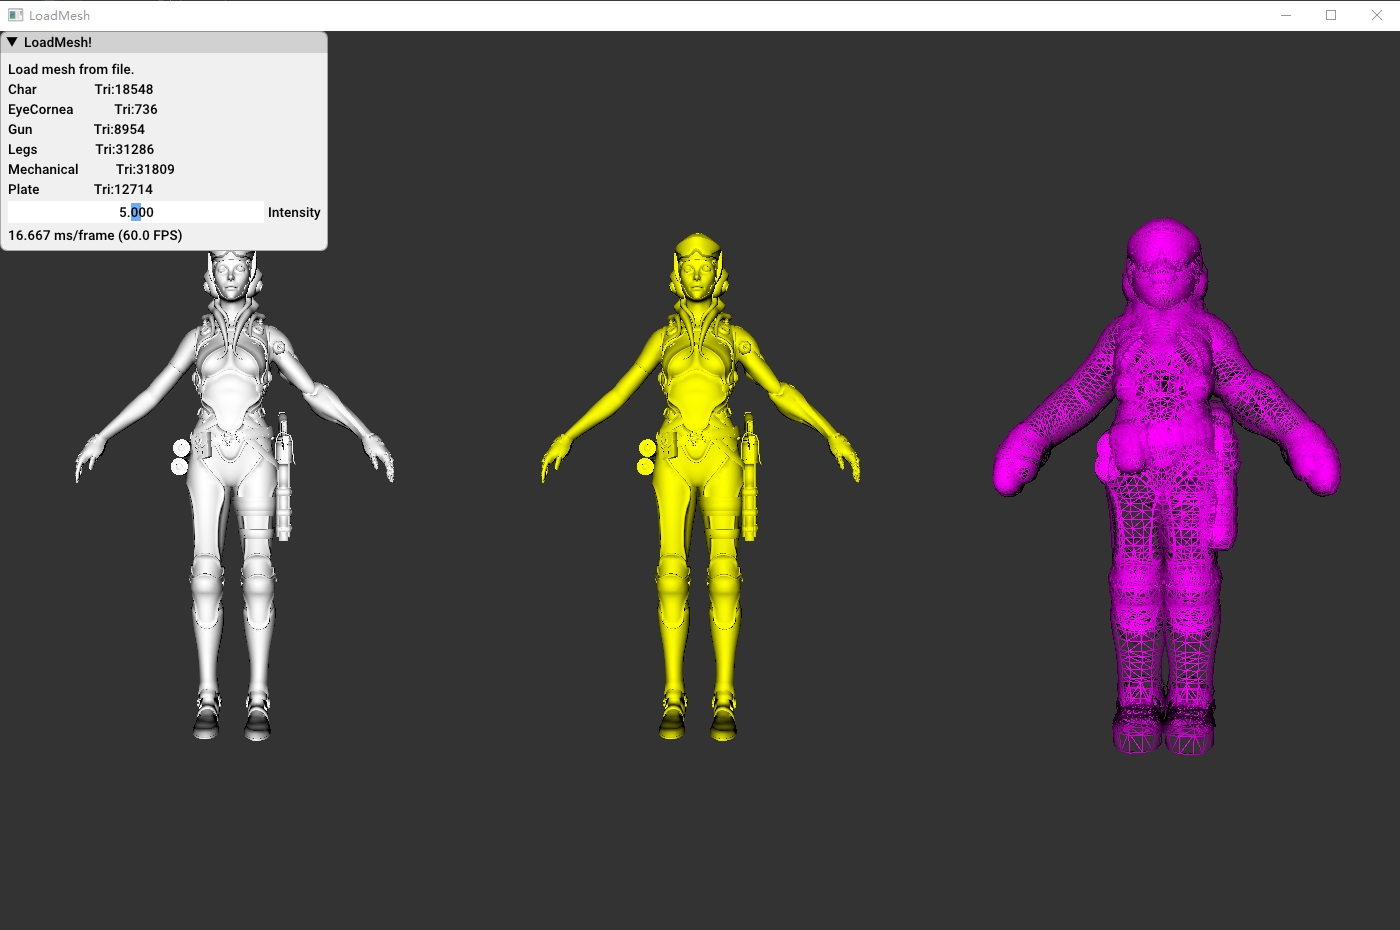
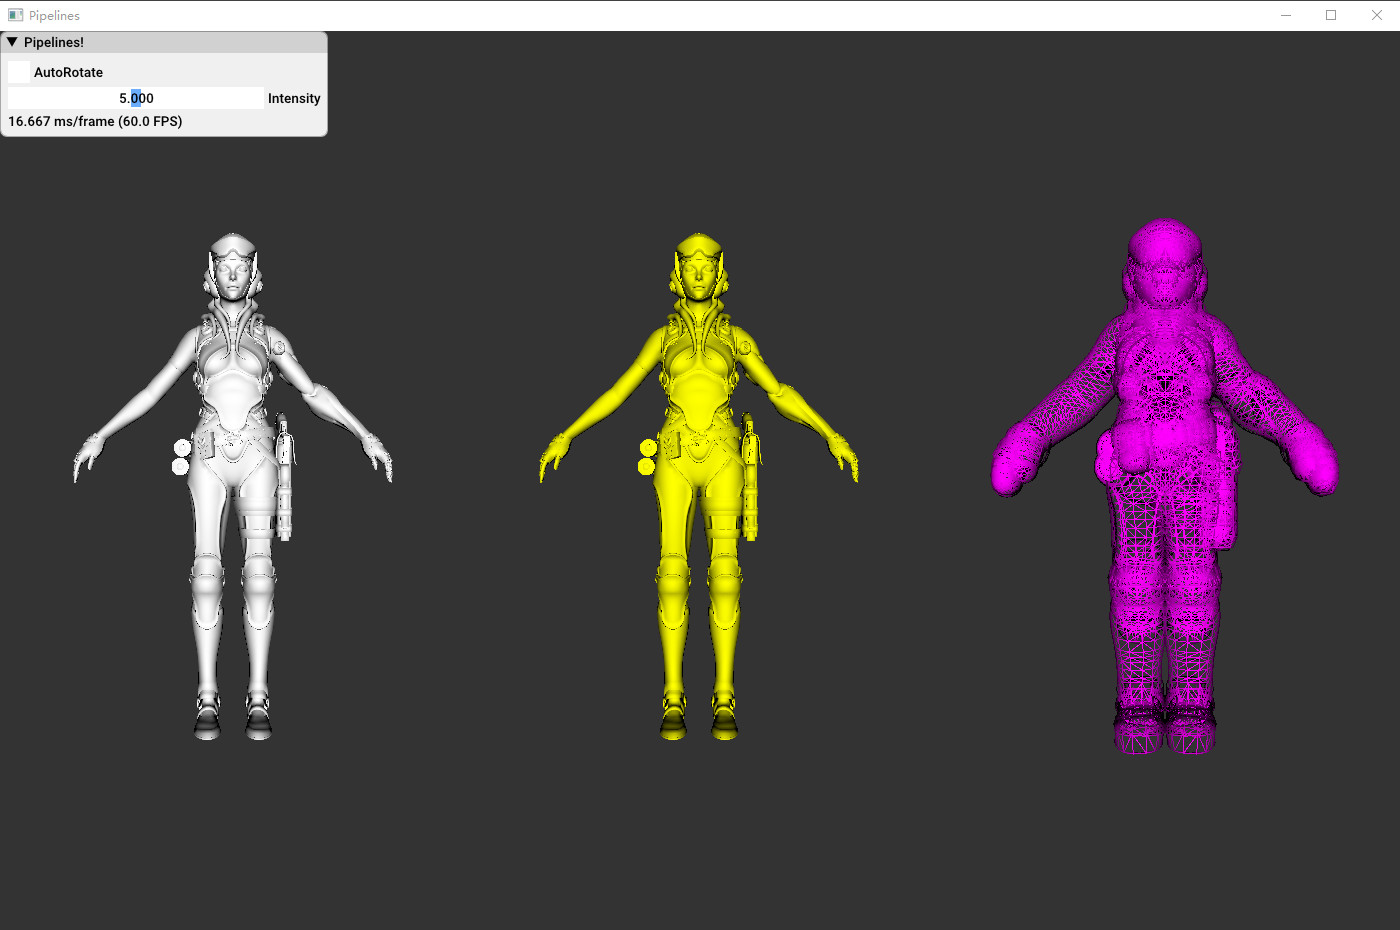
更新Demo，加入控制旋转的开关。

diff --git a/examples/8_OptimizeVertexIndexBuffer/Triangle.cpp b/examples/8_OptimizeVertexIndexBuffer/Triangle.cpp
@@ -87,7 +87,9 @@ private:
 	void Draw(float time, float delta)
 	{
         UpdateUI(time, delta);
-		UpdateUniformBuffers(time, delta);
+		if (m_AutoRotate) {
+			UpdateUniformBuffers(time, delta);
+		}
         DemoBase::Present();
 	}
     
@@ -99,9 +101,13 @@ private:
 			ImGui::SetNextWindowPos(ImVec2(0, 0));
 			ImGui::SetNextWindowSize(ImVec2(0, 0), ImGuiSetCond_FirstUseEver);
             ImGui::Begin("VertexBuffer", nullptr, ImGuiWindowFlags_AlwaysAutoResize | ImGuiWindowFlags_NoResize | ImGuiWindowFlags_NoMove);
-            ImGui::Text("VertexBuffer And IndexBuffer.");
+            
+			ImGui::Checkbox("AutoRotate", &m_AutoRotate);
+
+			ImGui::Text("VertexBuffer And IndexBuffer.");
             ImGui::Text("Application average %.3f ms/frame (%.1f FPS)", 1000.0f / ImGui::GetIO().Framerate, ImGui::GetIO().Framerate);
-            ImGui::End();
+            
+			ImGui::End();
 		}
         
 		m_GUI->EndFrame();
@@ -411,6 +417,7 @@ private:
 	}
     
 private:
+	bool							m_AutoRotate = false;
 	bool 							m_Ready = false;
     
 	UBOData 						m_MVPData;

diff --git a/examples/10_Pipelines/10_Pipelines.cpp b/examples/10_Pipelines/10_Pipelines.cpp
@@ -85,7 +85,9 @@ private:
 	void Draw(float time, float delta)
 	{
         UpdateUI(time, delta);
-		UpdateUniformBuffers(time, delta);
+		if (m_AutoRotate) {
+			UpdateUniformBuffers(time, delta);
+		}
         DemoBase::Present();
 	}
     
@@ -97,6 +99,9 @@ private:
 			ImGui::SetNextWindowPos(ImVec2(0, 0));
 			ImGui::SetNextWindowSize(ImVec2(0, 0), ImGuiSetCond_FirstUseEver);
             ImGui::Begin("Pipelines!", nullptr, ImGuiWindowFlags_AlwaysAutoResize | ImGuiWindowFlags_NoResize | ImGuiWindowFlags_NoMove);
+			
+			ImGui::Checkbox("AutoRotate", &m_AutoRotate);
+			
 			ImGui::SliderFloat("Intensity", &(m_ParamData.intensity), 0.0f, 10.0f);
 			ImGui::Text("%.3f ms/frame (%.1f FPS)", 1000.0f / ImGui::GetIO().Framerate, ImGui::GetIO().Framerate);
             ImGui::End();
@@ -391,6 +396,7 @@ private:
 	typedef std::vector<VkDescriptorSet>			VkDescriptorSets;
 	typedef std::vector<vk_demo::DVKPipeline*>		DVKPipelines;
 
+	bool							m_AutoRotate = false;
 	bool 							m_Ready = false;
     
 	std::vector<MVPBlock> 			m_MVPDatas;

diff --git a/examples/6_ImageGUI/Triangle.cpp b/examples/6_ImageGUI/Triangle.cpp
@@ -90,8 +90,10 @@ private:
 
 	void Draw(float time, float delta)
 	{
-		UpdateUniformBuffers(time, delta);
 		UpdateUI(time, delta);
+		if (m_EnableRotate) {
+			UpdateUniformBuffers(time, delta);
+		}
         DemoBase::Present();
 	}
 
@@ -108,8 +110,9 @@ private:
 			ImGui::SetNextWindowPos(ImVec2(0, 0));
 			ImGui::SetNextWindowSize(ImVec2(0, 0), ImGuiSetCond_FirstUseEver);
             ImGui::Begin("ImGUI!", nullptr, ImGuiWindowFlags_AlwaysAutoResize | ImGuiWindowFlags_NoResize | ImGuiWindowFlags_NoMove); 
-
-            ImGui::Text("This is some useful text.");
+			ImGui::Checkbox("AutoRotate", &m_EnableRotate);
+            
+			ImGui::Text("This is some useful text.");
             ImGui::Checkbox("Demo Window", &yes);
             ImGui::Checkbox("Another Window", &yes);
 
@@ -500,6 +503,7 @@ private:
 	}
     
 private:
+	bool							m_EnableRotate = false;
 	bool 							m_Ready = false;
     
 	UBOData 						m_MVPData;

diff --git a/examples/9_LoadMesh/9_LoadMesh.cpp b/examples/9_LoadMesh/9_LoadMesh.cpp
@@ -82,7 +82,9 @@ private:
 	void Draw(float time, float delta)
 	{
         UpdateUI(time, delta);
-		UpdateUniformBuffers(time, delta);
+		if (m_AutoRotate) {
+			UpdateUniformBuffers(time, delta);
+		}
         DemoBase::Present();
 	}
     
@@ -95,6 +97,8 @@ private:
 			ImGui::SetNextWindowSize(ImVec2(0, 0), ImGuiSetCond_FirstUseEver);
             ImGui::Begin("LoadMesh!", nullptr, ImGuiWindowFlags_AlwaysAutoResize | ImGuiWindowFlags_NoResize | ImGuiWindowFlags_NoMove);
 			ImGui::Text("Load mesh from file.");
+
+			ImGui::Checkbox("AutoRotate", &m_AutoRotate);
 
 			for (int32 i = 0; i < m_Model->meshes.size(); ++i)
 			{
@@ -447,6 +451,7 @@ private:
 	typedef std::vector<vk_demo::DVKBuffer*>	DVKBuffers;
 	typedef std::vector<VkDescriptorSet>		VkDescriptorSets;
 
+	bool							m_AutoRotate = false;
 	bool 							m_Ready = false;
     
 	std::vector<UBOData> 			m_MVPDatas;

diff --git a/examples/12_PushConstants/12_PushConstants.cpp b/examples/12_PushConstants/12_PushConstants.cpp
@@ -85,7 +85,9 @@ private:
 	void Draw(float time, float delta)
 	{
         UpdateUI(time, delta);
-		UpdateUniformBuffers(time, delta);
+		if (m_AutoRotate) {
+			UpdateUniformBuffers(time, delta);
+		}
         DemoBase::Present();
 	}
     
@@ -99,6 +101,8 @@ private:
             ImGui::Begin("PushConstants", nullptr, ImGuiWindowFlags_AlwaysAutoResize | ImGuiWindowFlags_NoResize | ImGuiWindowFlags_NoMove);
 			ImGui::Text("Renderabls");
             
+			ImGui::Checkbox("AutoRotate", &m_AutoRotate);
+
 			ImGui::Text("%.3f ms/frame (%.1f FPS)", 1000.0f / ImGui::GetIO().Framerate, ImGui::GetIO().Framerate);
             ImGui::End();
 		}
@@ -328,6 +332,7 @@ private:
 
 private:
 
+	bool							m_AutoRotate = false;
 	bool 							m_Ready = false;
     
 	ViewProjectionBlock 			m_ViewProjData;
